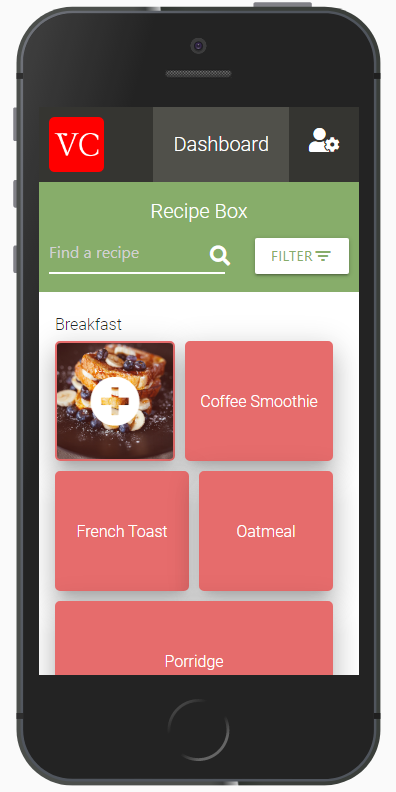
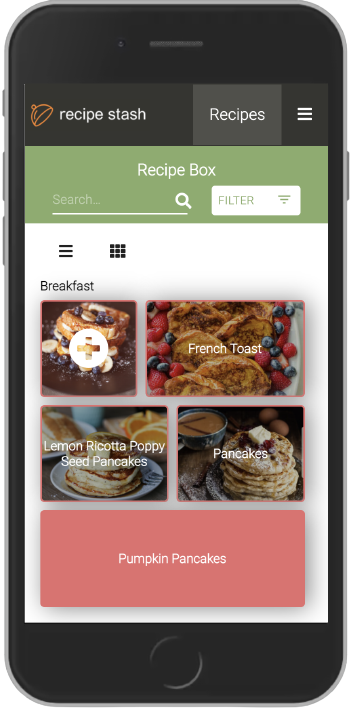
updated mobile preview on home page

diff --git a/src/components/Home/Home.js b/src/components/Home/Home.js
@@ -1,5 +1,5 @@
 import React from 'react'
-import mobileView from '../../images/mobile_dashboard_edited.png'
+import mobileView from '../../images/mobile_dashboard.png'
 import transparentLogo from '../../images/white-text-transparent.svg'
 import { withRouter } from 'react-router'
 import './Home.scss'
